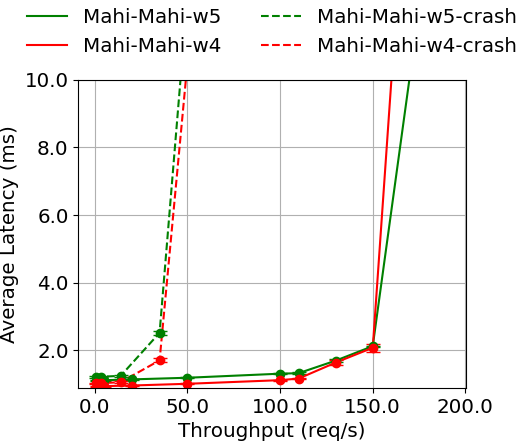
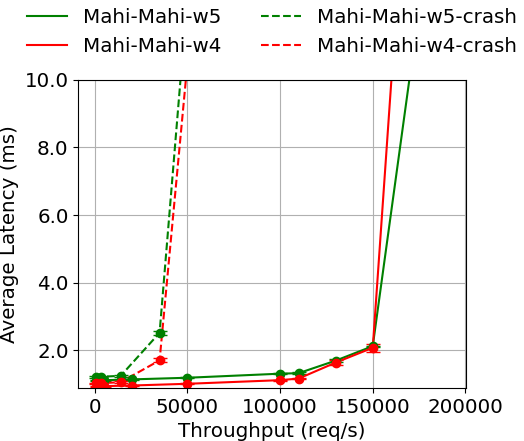
added row x axis

diff --git a/experiments/peformance-graphs/simple-graph.py b/experiments/peformance-graphs/simple-graph.py
@@ -355,7 +355,7 @@ def thousands(x, pos):
 plt.figure(figsize=(12, 3))
 plt.rcParams.update({'font.size': 14.30})
 ax = plt.gca()
-ax.xaxis.set_major_formatter(FuncFormatter(thousands))
+# ax.xaxis.set_major_formatter(FuncFormatter(thousands))
 ax.yaxis.set_major_formatter(FuncFormatter(thousands))
 
 ax.set_xlim([0, 370000])
@@ -380,7 +380,7 @@ plt.plot(mm_w5_l1_10_best_throughput, mm_w5_l1_10_best_latency, 'go--', label='M
 plt.errorbar(mm_w5_l1_10_best_throughput, mm_w5_l1_10_best_latency, yerr=mm_w5_l1_10_best_std, fmt='o', ecolor='g', capsize=5,mfc='g',  mec='g' )
 
 
-plt.xlabel('Throughput x 1k (req/s) ')
+plt.xlabel('Throughput (req/s) ')
 plt.ylabel('Average Latency (s)')
 plt.grid()
 plt.legend(loc='upper center', bbox_to_anchor=(0.5, 1.3), ncol=3, frameon=False)
@@ -393,7 +393,7 @@ plt.close()
 plt.figure(figsize=(5, 4))
 plt.rcParams.update({'font.size': 14.30})
 ax = plt.gca()
-ax.xaxis.set_major_formatter(FuncFormatter(thousands))
+# ax.xaxis.set_major_formatter(FuncFormatter(thousands))
 ax.yaxis.set_major_formatter(FuncFormatter(thousands))
 
 ax.set_xlim([0, 50000])
@@ -410,7 +410,7 @@ plt.plot(mm_w5_l1_10_crash_throughput, mm_w5_l1_10_crash_latency, 'g-', label='M
 plt.errorbar(mm_w5_l1_10_crash_throughput, mm_w5_l1_10_crash_latency, yerr=mm_w5_l1_10_crash_std, fmt='o', ecolor='g', capsize=5,mfc='g',  mec='g')
 
 
-plt.xlabel('Throughput x1k (req/s)')
+plt.xlabel('Throughput (req/s)')
 plt.ylabel('Average Latency (s)')
 plt.grid()
 plt.legend(loc='lower center', bbox_to_anchor=(0.5, 1.02), ncol=2, frameon=False)
@@ -421,11 +421,13 @@ plt.close()
 plt.figure(figsize=(6, 4))
 plt.rcParams.update({'font.size': 14.30})
 ax = plt.gca()
-ax.xaxis.set_major_formatter(FuncFormatter(thousands))
+# ax.xaxis.set_major_formatter(FuncFormatter(thousands))
 ax.yaxis.set_major_formatter(FuncFormatter(thousands))
 
 ax.set_xlim([0, 160000])
-ax.set_ylim([800, 1900])
+ax.set_ylim([1000, 1900])
+ax.set_xticks([25000, 50000, 100000, 150000])
+
 
 
 plt.plot(mm_w5_l1_10_best_throughput, mm_w5_l1_10_best_latency, 'g-', label='Mahi-Mahi-l1')
@@ -441,7 +443,7 @@ plt.plot(mm_w5_l2_10_crash_throughput, mm_w5_l2_10_crash_latency, 'r--', label='
 plt.errorbar(mm_w5_l2_10_crash_throughput, mm_w5_l2_10_crash_latency, yerr=mm_w5_l2_10_crash_std, fmt='o', ecolor='r', capsize=5,mfc='r',  mec='r')
 
 
-plt.xlabel('Throughput x1k (req/s)')
+plt.xlabel('Throughput (req/s)')
 plt.ylabel('Average Latency (s)')
 plt.grid()
 plt.legend(loc='lower center', bbox_to_anchor=(0.5, 1.02), ncol=2, frameon=False)
@@ -452,7 +454,7 @@ plt.close()
 plt.figure(figsize=(5, 4))
 plt.rcParams.update({'font.size': 14.30})
 ax = plt.gca()
-ax.xaxis.set_major_formatter(FuncFormatter(thousands))
+# ax.xaxis.set_major_formatter(FuncFormatter(thousands))
 ax.yaxis.set_major_formatter(FuncFormatter(thousands))
 
 # ax.set_xlim([0, 1500])
